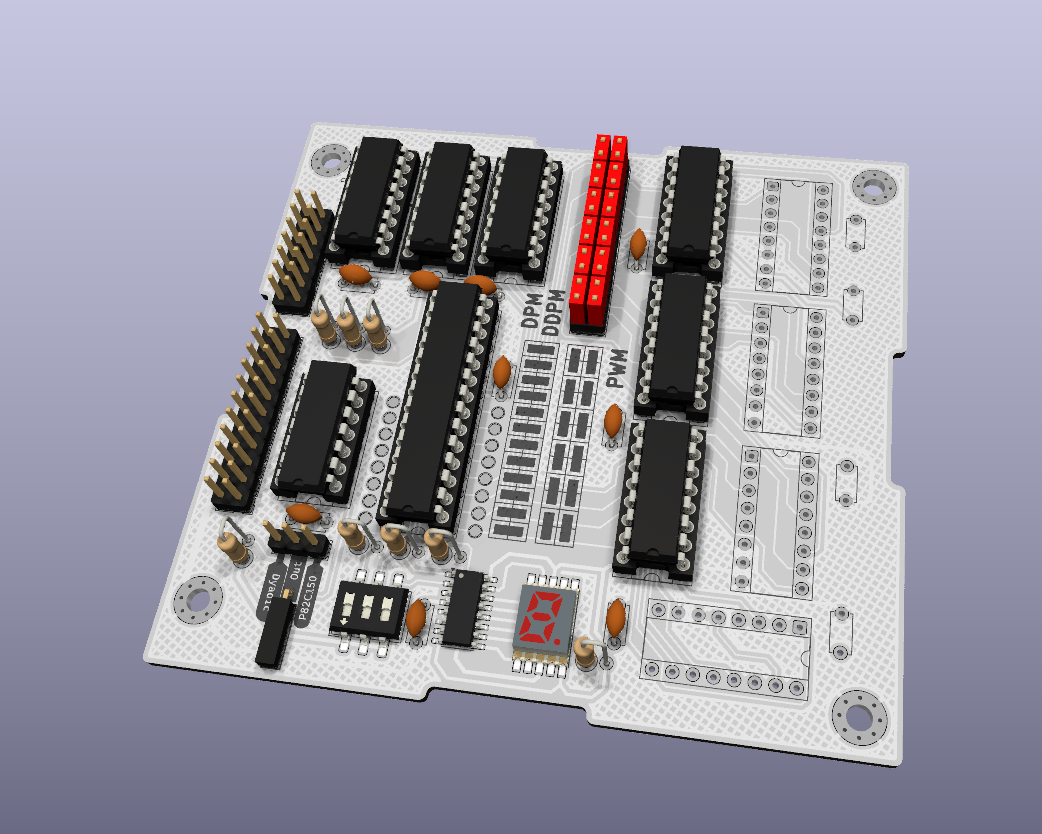
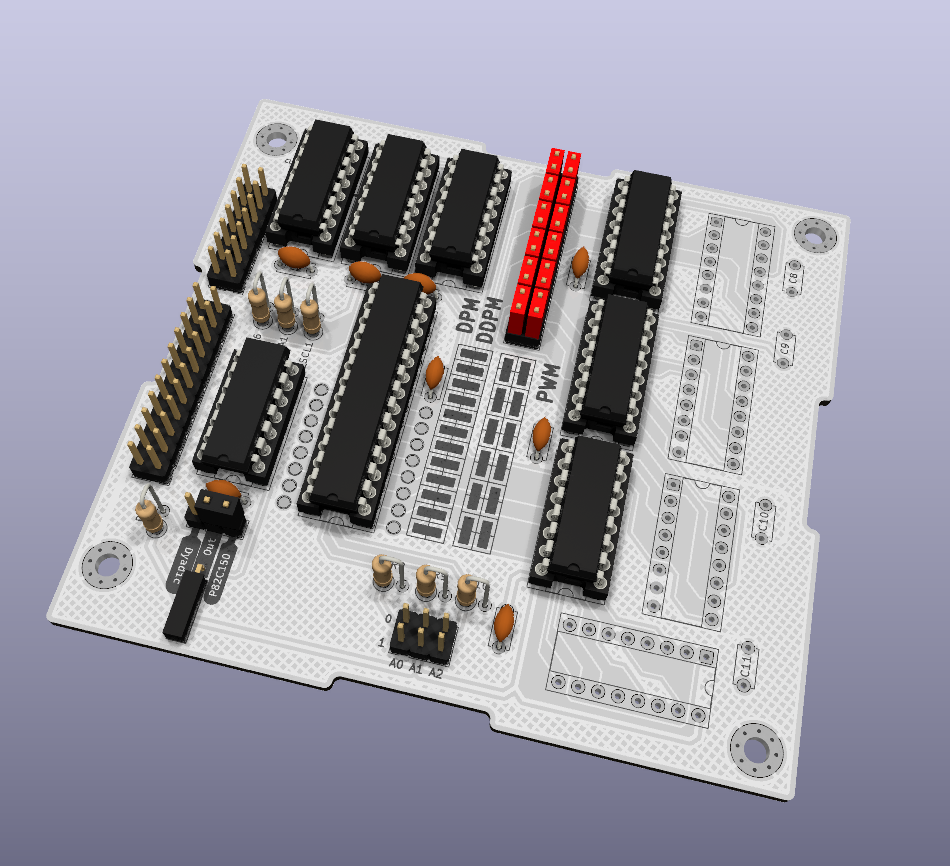
UPDATE : KiVar data and 3D model for JP5 + readme.md

diff --git a/README.md b/README.md
@@ -47,9 +47,6 @@ On Distributed Pulse Modulation (DPM) and Dyadic Descrete Pulse Modulation (DDPM
 
 ![Port A & B](./img/MCP23017_portA_B.jpg)
 
-### Overview
-
-![DistributedPulseModulation_overview](./img/DistributedPulseModulation_overview.png)
 
 ## Choose your feature and do not populate the useless chips
 
